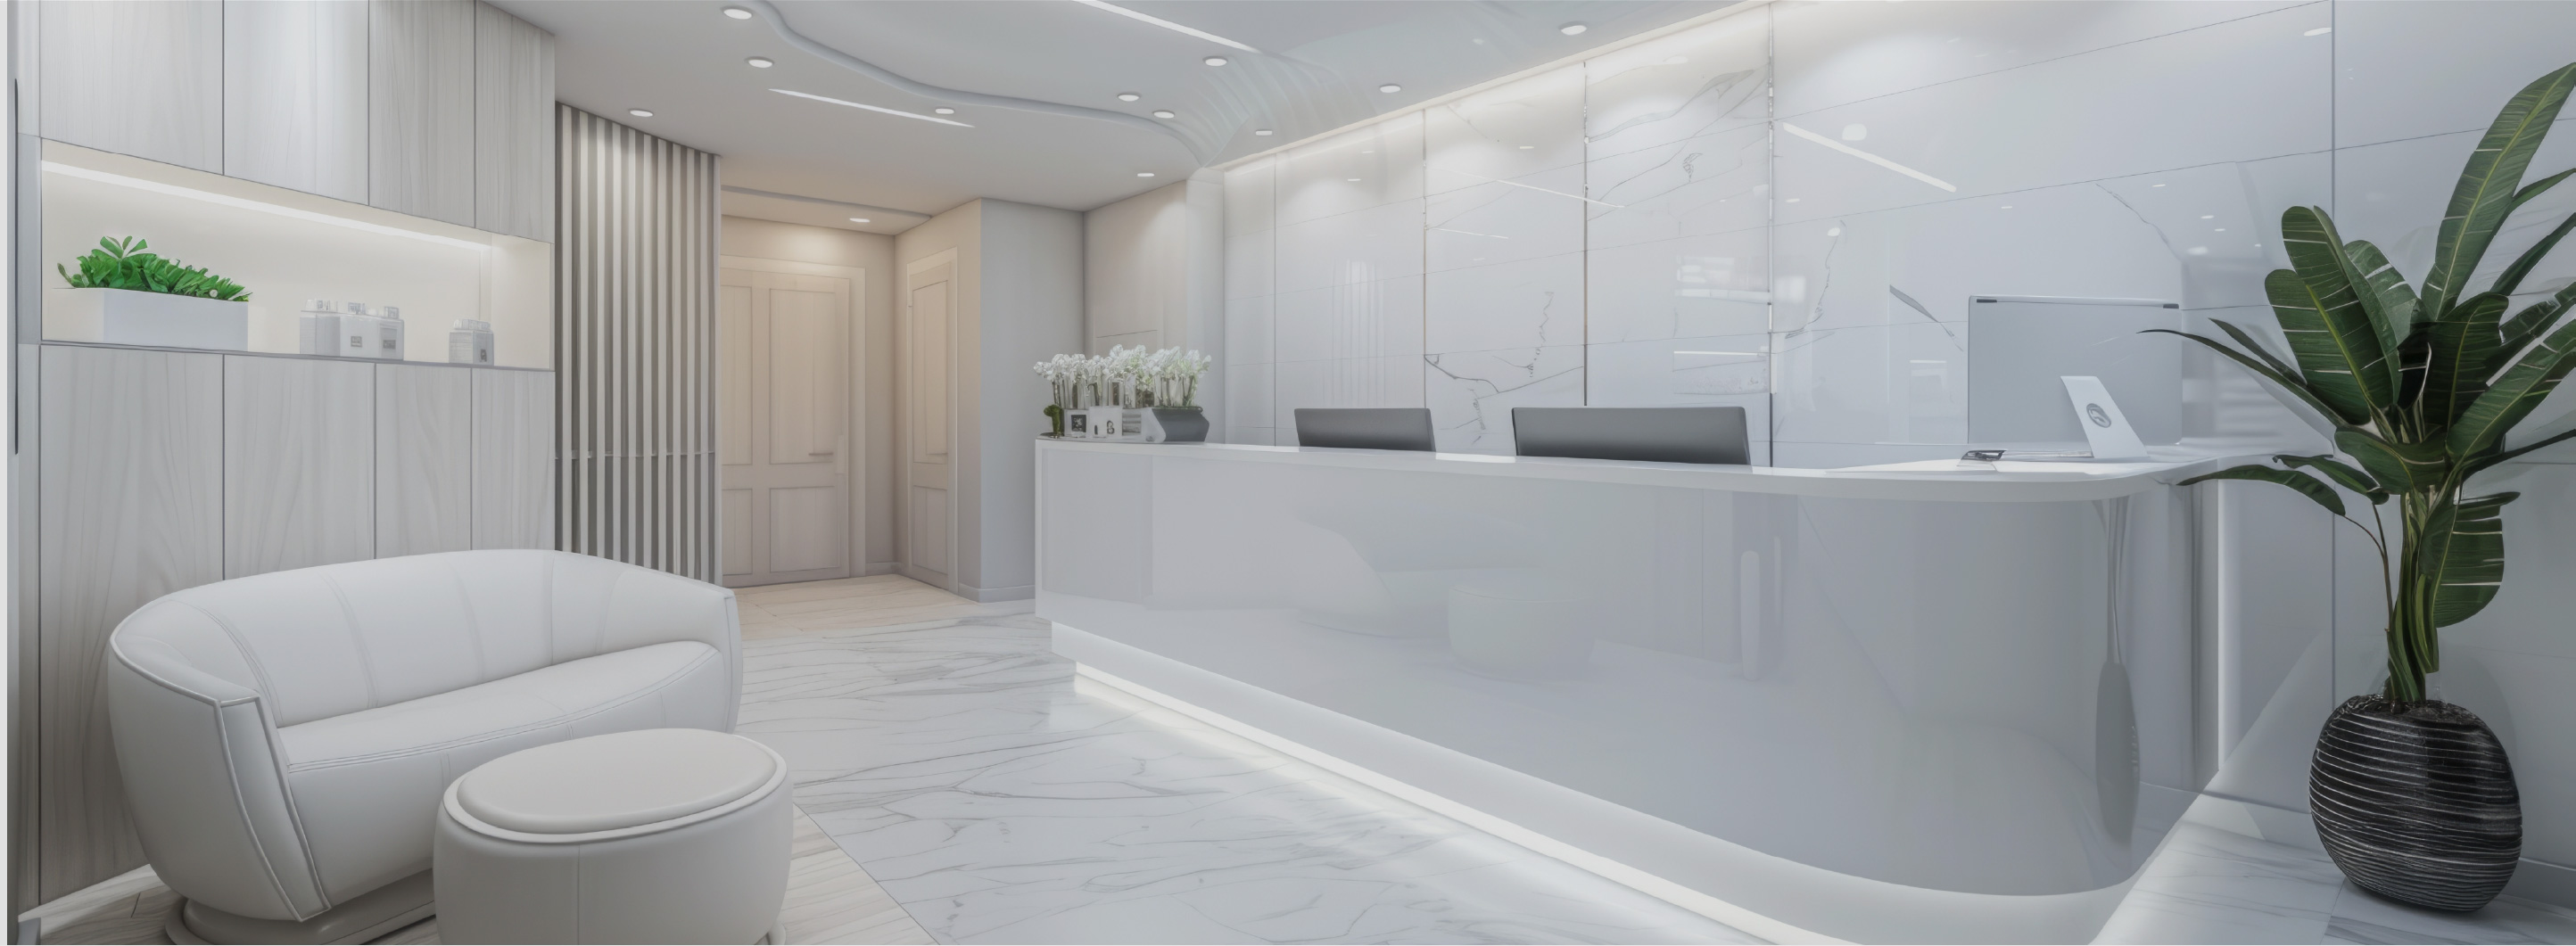
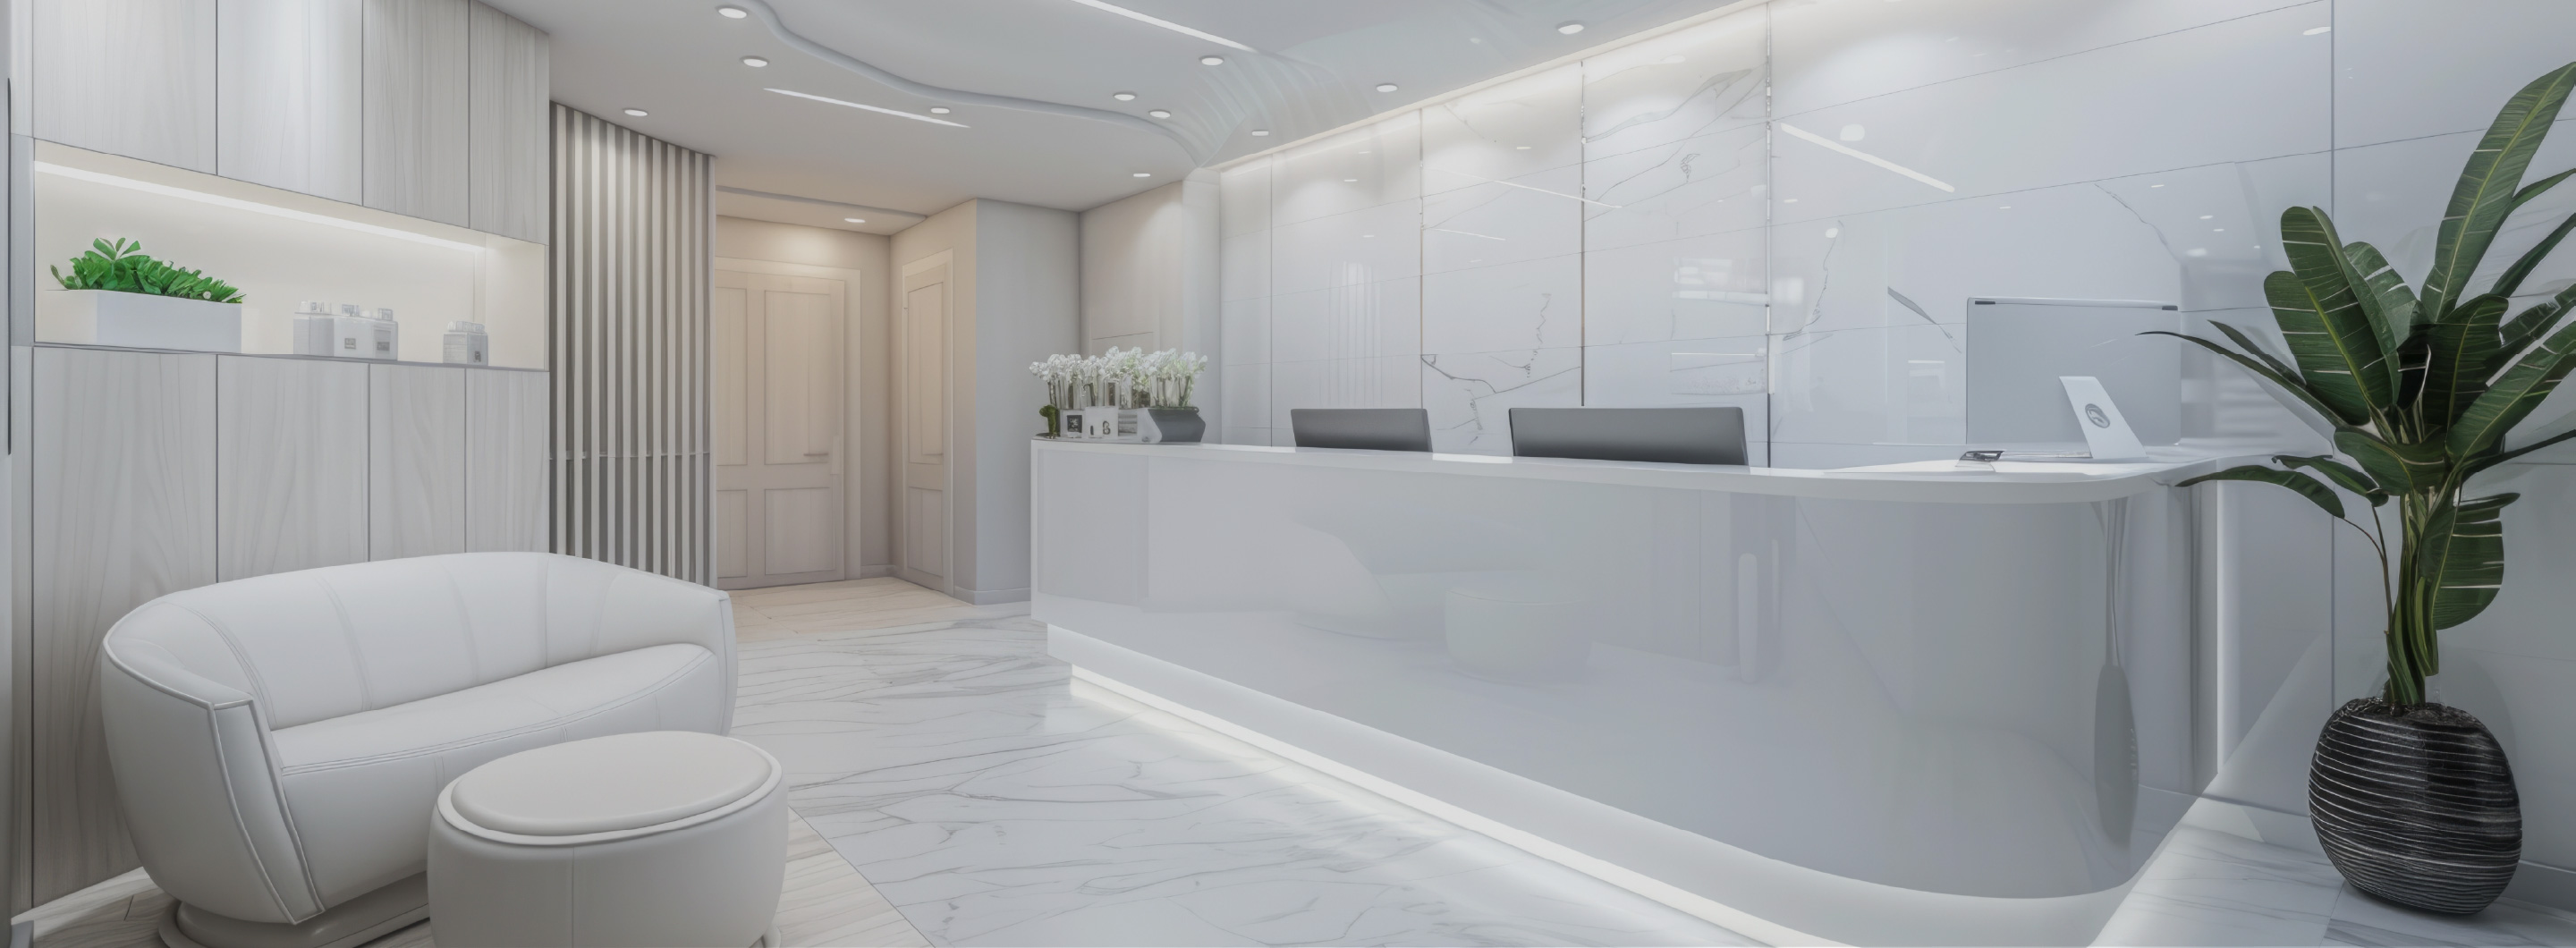
1440px画面修正

diff --git a/src/sass/object/project/_p-access.scss b/src/sass/object/project/_p-access.scss
@@ -57,15 +57,7 @@
   background-size: cover;
   z-index: 0;
   @include mq(md) {
-    top: rem(267);
-    width: 100%;
-    margin: 0;
-    height: rem(530);
-    aspect-ratio: 1440 / 530;
-    background-image: url("../images/access/access_01PC.webp");
-    background-repeat: no-repeat;
-    background-position: center center;
-    background-size: cover;
+    display: none;
   }
 }
 
@@ -73,11 +65,18 @@
   position: relative;
   padding: rem(144) rem(15) rem(25);
   margin-top: rem(38);
+  margin-inline: rem(15);
   z-index: 1;
   @include mq(md) {
-    padding: rem(152) rem(50) rem(136);
-    margin-top: rem(87);
-    max-width: rem(550);
+    width: 100%;
+    margin-top: rem(90);
+    margin-inline: 0;
+    padding: 0;
+    // aspect-ratio: 1440 / 530;
+    background-image: url("../images/access/access_01PC.webp");
+    background-repeat: no-repeat;
+    background-position: center center;
+    background-size: cover;
   }
 }
 
@@ -91,7 +90,31 @@
   background: rgba(51, 51, 51, 0.5);
   z-index: -100;
   @include mq(md) {
-    top: 0;
+    content: none;
+  }
+}
+
+.p-access__info-wrapper {
+  @include mq(md) {
+    max-width: $innerWidth + $padding-pc * 2;
+    padding-right: rem(strip-unit($padding-pc));
+    padding-left: rem(strip-unit($padding-pc));
+    margin: 0 auto;
+    height: 100%;
+  }
+}
+
+.p-access__list {
+  @include mq(md) {
+    background: rgba(51, 51, 51, 0.5);
+    height: 100%;
+    width: fit-content;
+    min-width: rem(552);
+    min-height: rem(530);
+    padding: 0 rem(52);
+    display: flex;
+    flex-direction: column;
+    justify-content: center;
   }
 }
 

diff --git a/src/index.html b/src/index.html
@@ -1048,7 +1048,7 @@
 
     <!-- アクセス -->
     <section class="p-access l-access">
-      <div class="p-access__inner l-inner">
+      <div class="p-access__inner">
         <h2 class="p-access__title">
           SALON ASSIST
           <span class="p-access__title-line"></span>
@@ -1076,9 +1076,11 @@
           </div>
         </div>
         <!-- アクセス -->
-        <h3 class="p-access__heading">ACCESS</h3>
-        <div class="p-access__map">
-          <iframe src="https://www.google.com/maps/embed?pb=!1m18!1m12!1m3!1d3280.0169309036582!2d135.4995624!3d34.70475289999999!2m3!1f0!2f0!3f0!3m2!1i1024!2i768!4f13.1!3m3!1m2!1s0x6000e68fd8bb8361%3A0xcb7d15a1933c8b85!2z44Gq44KT44G844KEIOaiheeUsOacrOW6lw!5e0!3m2!1sja!2sjp!4v1777197241239!5m2!1sja!2sjp" title="Google Map" width="345" height="200" style="border:0;" allowfullscreen="" loading="lazy" referrerpolicy="no-referrer-when-downgrade"></iframe>
+        <div class="p-access-heading__inner l-inner">
+          <h3 class="p-access__heading">ACCESS</h3>
+          <div class="p-access__map">
+            <iframe src="https://www.google.com/maps/embed?pb=!1m18!1m12!1m3!1d3280.0169309036582!2d135.4995624!3d34.70475289999999!2m3!1f0!2f0!3f0!3m2!1i1024!2i768!4f13.1!3m3!1m2!1s0x6000e68fd8bb8361%3A0xcb7d15a1933c8b85!2z44Gq44KT44G844KEIOaiheeUsOacrOW6lw!5e0!3m2!1sja!2sjp!4v1777197241239!5m2!1sja!2sjp" title="Google Map" width="345" height="200" style="border:0;" allowfullscreen="" loading="lazy" referrerpolicy="no-referrer-when-downgrade"></iframe>
+          </div>
         </div>
 
       </div>